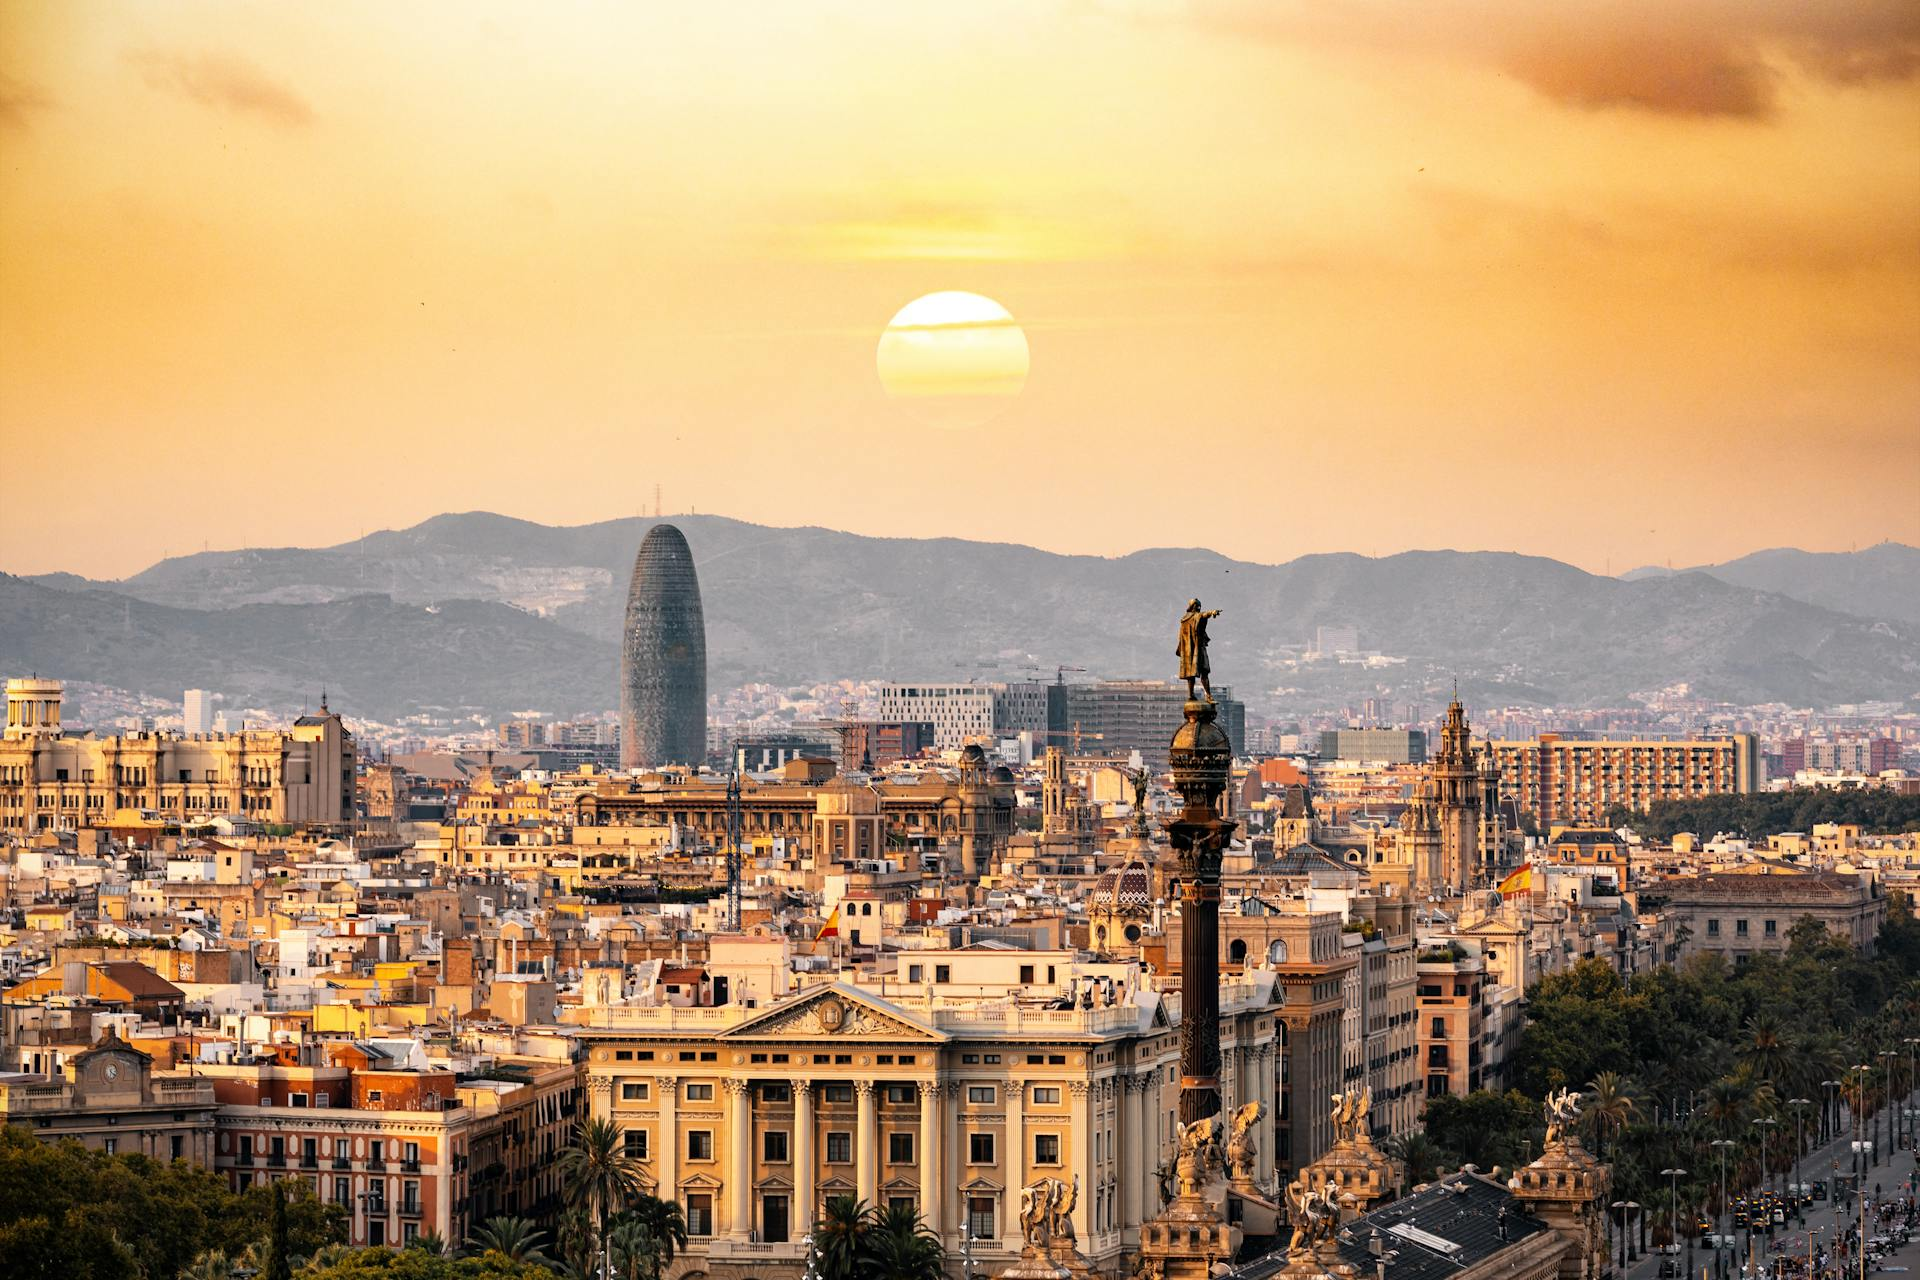
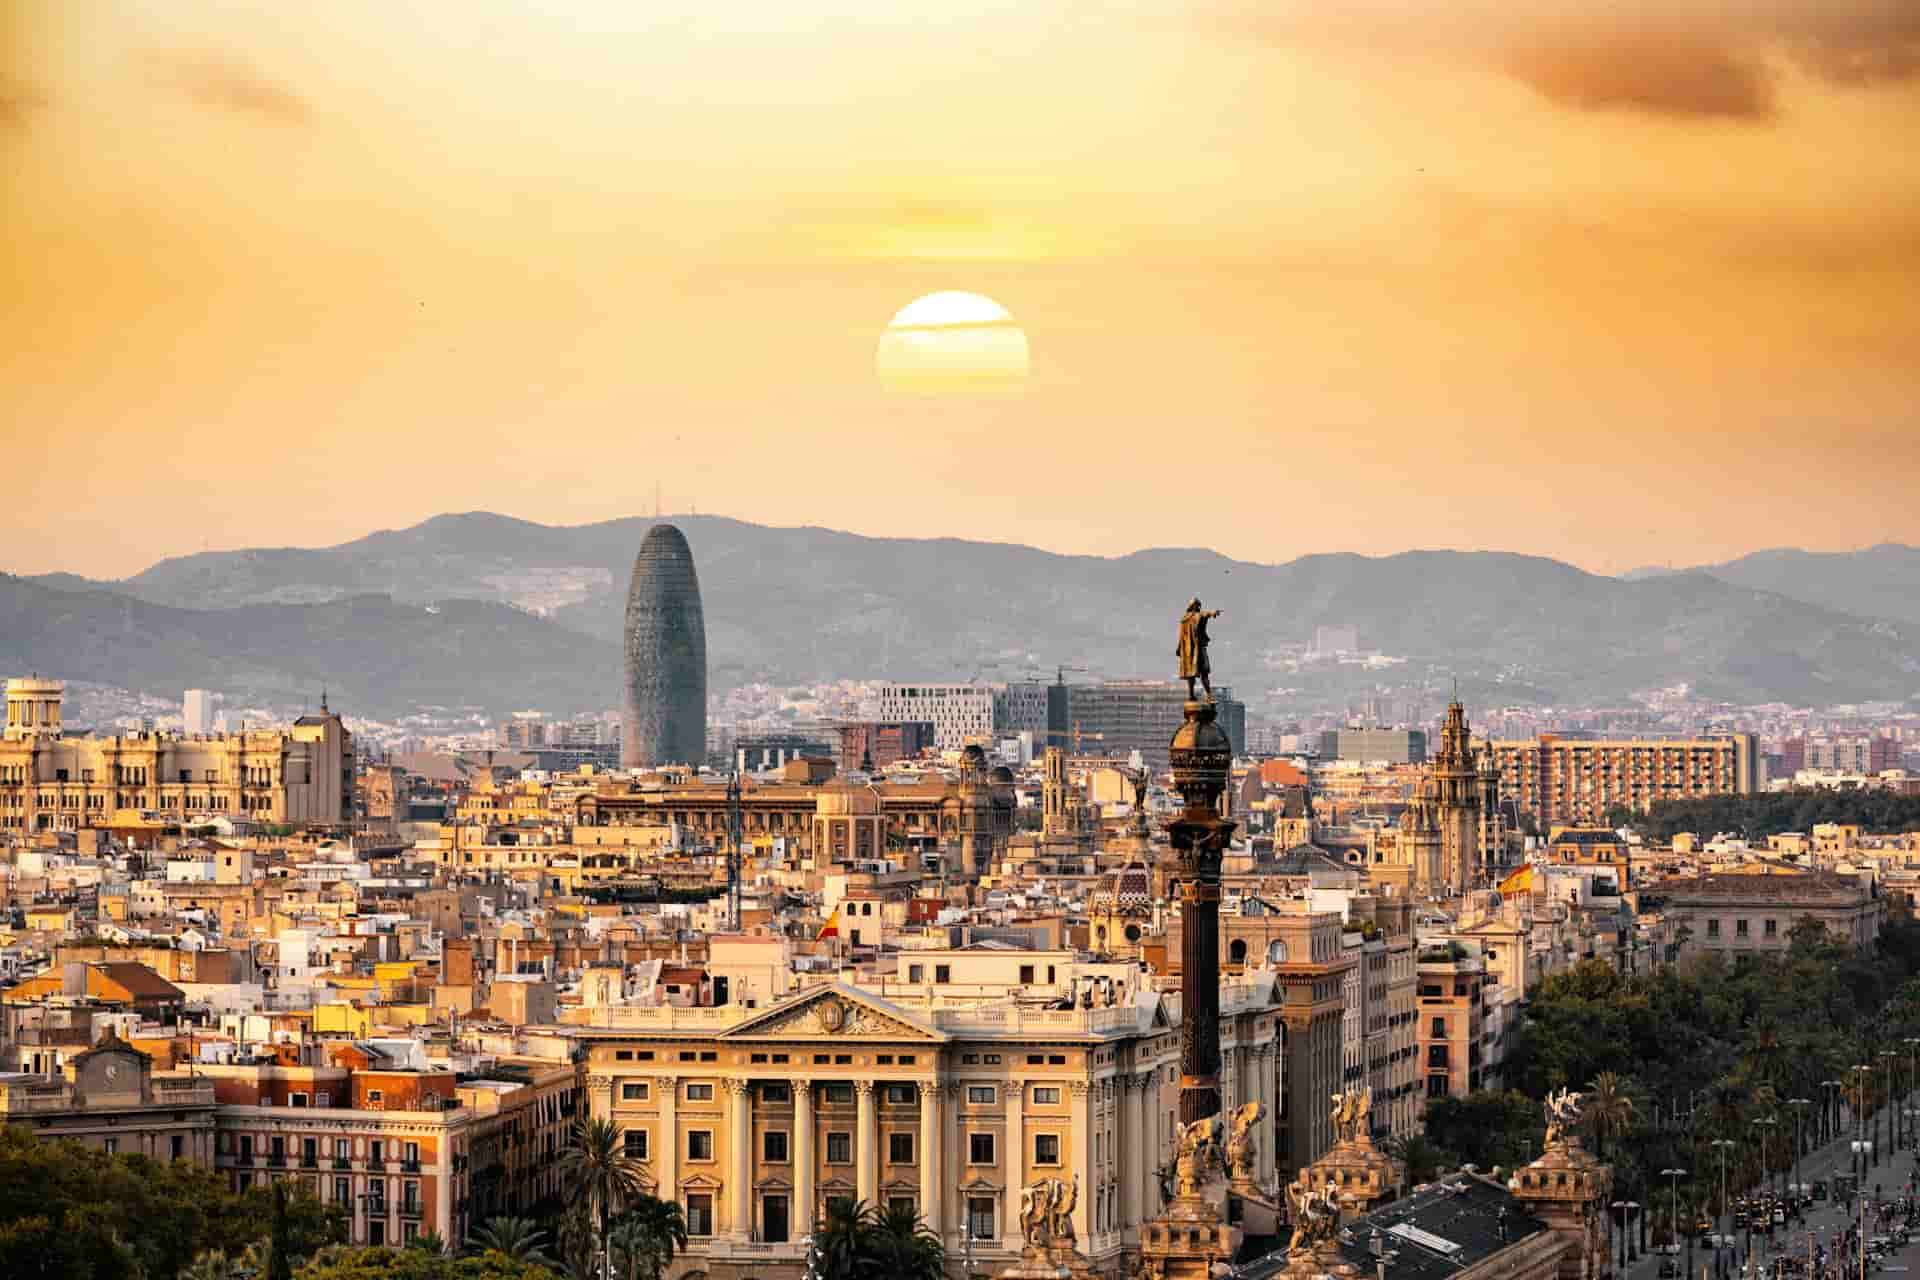
save

Changed region(s): [[0.0, 0.4688, 1.0, 1.0], [0.875, 0.9375, 1.0, 1.0], [0.1562, 0.9688, 0.2812, 1.0]]

diff --git a/place.html b/place.html
@@ -23,7 +23,7 @@
     <main>
         <div class="hero-img-container">
             <picture>
-                <source srcset="images/Spain.webp" media="(min-width: 800px)">
+                <source srcset="images/spain.webp" media="(min-width: 800px)">
                 <img src="images/spain-small.webp" alt="Responsive Image">
             </picture>
             <div class="picture-cards">
